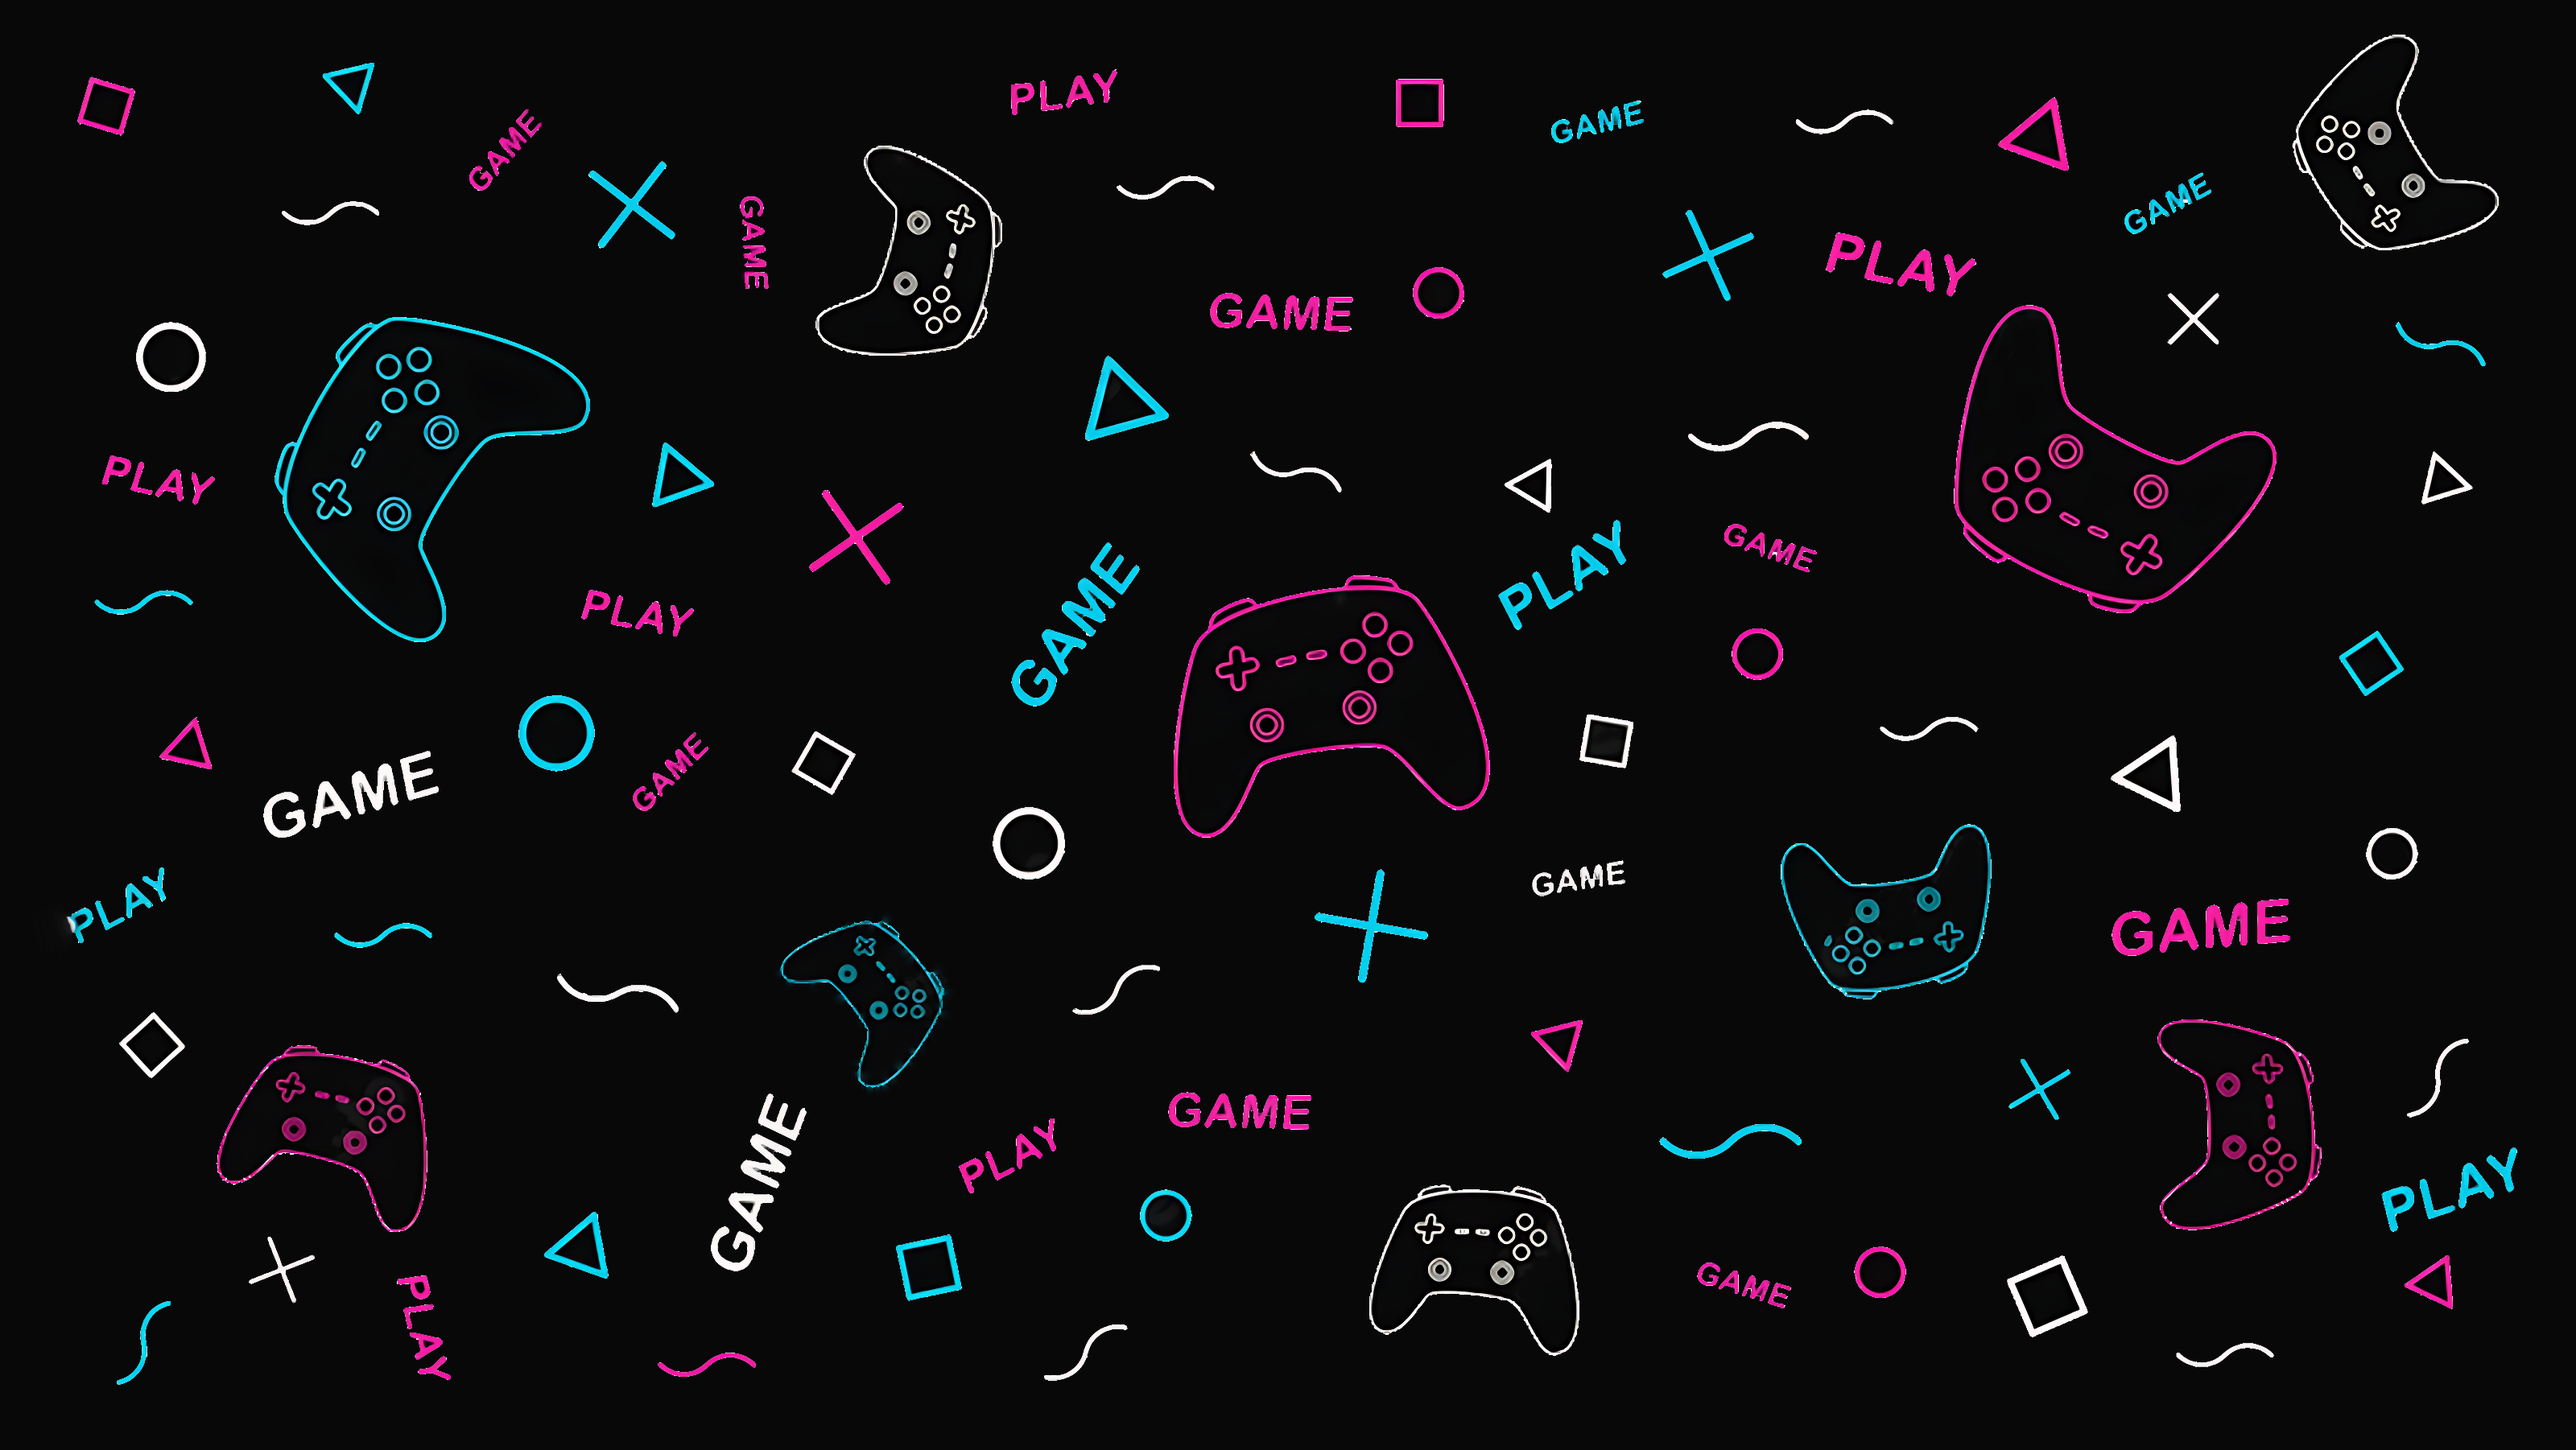
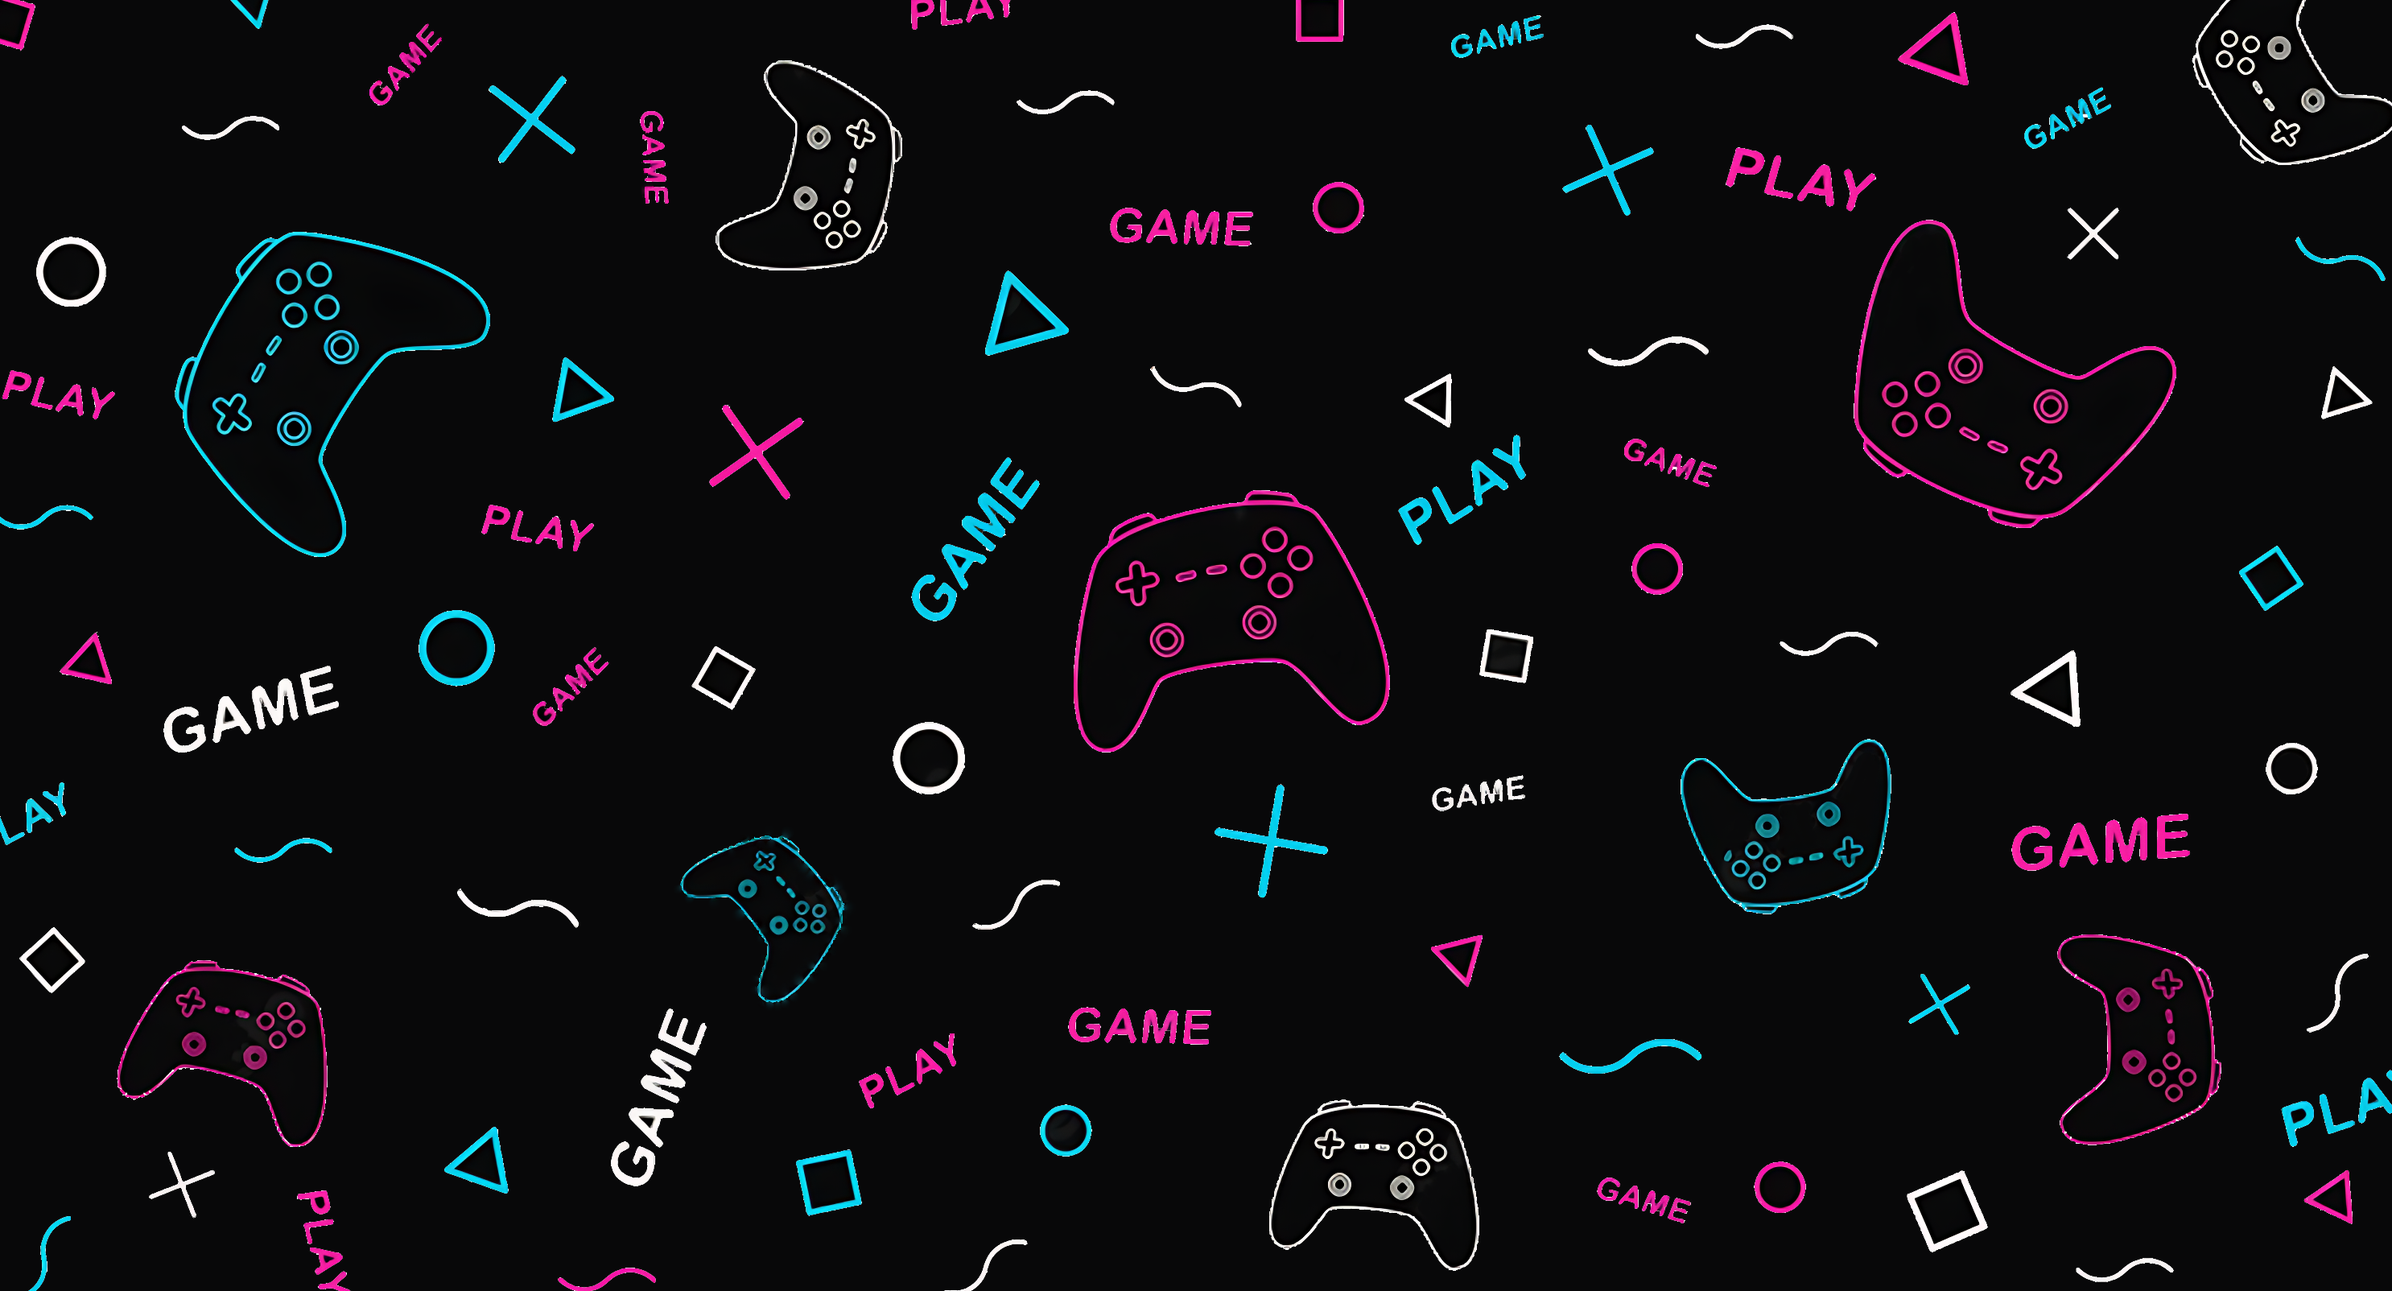
main-bgc is better added some bgc

diff --git a/src/App.jsx b/src/App.jsx
@@ -1,3 +1,4 @@
+import "./App.css";
 import { Col } from "react-bootstrap";
 import Footer from "./Footer/Footer";
 import Main from "./Main/Main";
@@ -82,21 +83,23 @@ const App = () => {
         height="cus-H"
         bgImg="../public/asd.png"
       />
-      <div className="w-100 d-flex justify-content-center flex-wrap gap-4 mt-5">
-        {Data.map((item) => {
-          return (
-            <Col className="mt-2 px-4" xs={12} sm={5} lg={3}>
-            <a key={`productList-${item.id}`}>
-              <MainCard
-                productImg={item.image}
-                TitleName={item.title}
-                Description={item.Desc}
-              />
-            </a>
-            </Col>
-          );
-        })}
-      </div>
+      <div className="bgc-cus">
+        <div className="w-100 d-flex justify-content-center flex-wrap gap-4 py-5">
+            {Data.map((item) => {
+              return (
+                <Col className="px-4" xs={12} sm={5} lg={3}>
+                  <a key={`productList-${item.id}`}>
+                    <MainCard
+                      productImg={item.image}
+                      TitleName={item.title}
+                      Description={item.Desc}
+                    />
+                  </a>
+                </Col>
+              );
+            })}
+          </div>
+        </div>
       <Footer />
     </div>
   );

diff --git a/src/Footer/Footer.jsx b/src/Footer/Footer.jsx
@@ -2,7 +2,7 @@ import "./Footer.css";
 
 const Footer = () => {
   return (
-    <div className="w-100 h-cus mt-5 d-flex align-items-center justify-content-center text-center bg-dark flex-row-reverse">Made by<a className="mx-1" href="https://github.com/Qwerty-zsw" target={"_blank"}>Qwerty-zsw</a>💙</div>
+    <div className="w-100 h-cus d-flex align-items-center justify-content-center text-center bg-dark flex-row-reverse">Made by<a className="mx-1" href="https://github.com/Qwerty-zsw" target={"_blank"}>Qwerty-zsw</a>💙</div>
   )
 }
 

diff --git a/src/MainCard/MainCard.jsx b/src/MainCard/MainCard.jsx
@@ -1,9 +1,8 @@
-import "./MainCard.css";
 import Card from "react-bootstrap/Card";
 
 const MainCard = (props) => {
   return (
-    <div>
+      <div>
       <Card>
         <Card.Img variant="top" src={props.productImg} />
         <Card.Body className="text-center">

diff --git a/src/App.css b/src/App.css
@@ -1,0 +1,6 @@
+.bgc-cus{
+    background-image: url(../public/main-bgc.jpg);
+    background-position: center;
+    background-repeat: no-repeat;
+    background-size: cover;
+}
